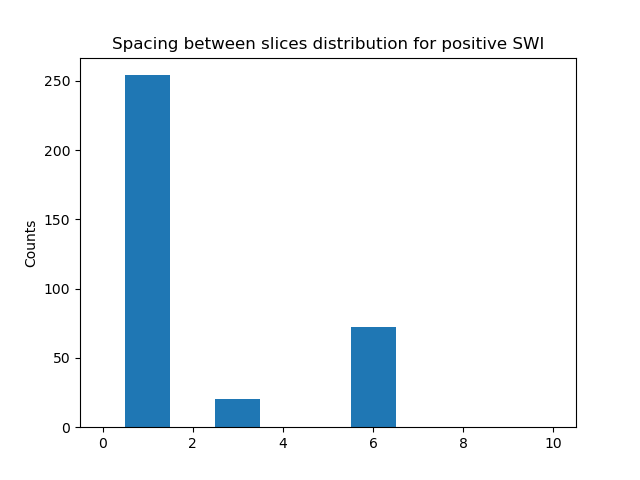
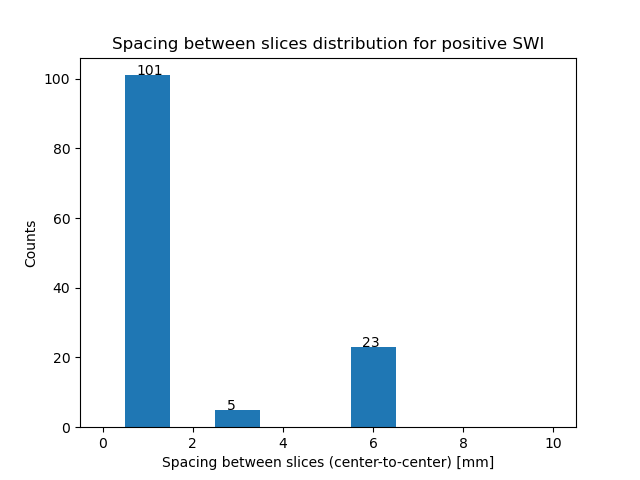
update figures

diff --git a/Cobra/cobra/stats_tools/vis.py b/Cobra/cobra/stats_tools/vis.py
@@ -512,6 +512,7 @@ def create_1d_hist(ax, values, bins, x_range, title, histtype='stepfilled',displ
     hist_data = np.histogram(values, bins, x_range)
     
     bin_width = hist_data[1][1] - hist_data[1][0]
+    #Add the number of counts on top of the bars.
     if (display_counts):
         for i in range(bins):
             if (hist_data[0][i]!=0):
@@ -522,7 +523,7 @@ def create_1d_hist(ax, values, bins, x_range, title, histtype='stepfilled',displ
 ################################
 
 def create_boxplot(ax,data,data_labels=None,title=''):
-
+    
     if (data_labels is None):
         data_labels = [int(i+1) for i in range(len(data))]
     ax = sns.boxplot(data=data,palette='Set2',medianprops=dict(color="red"))
